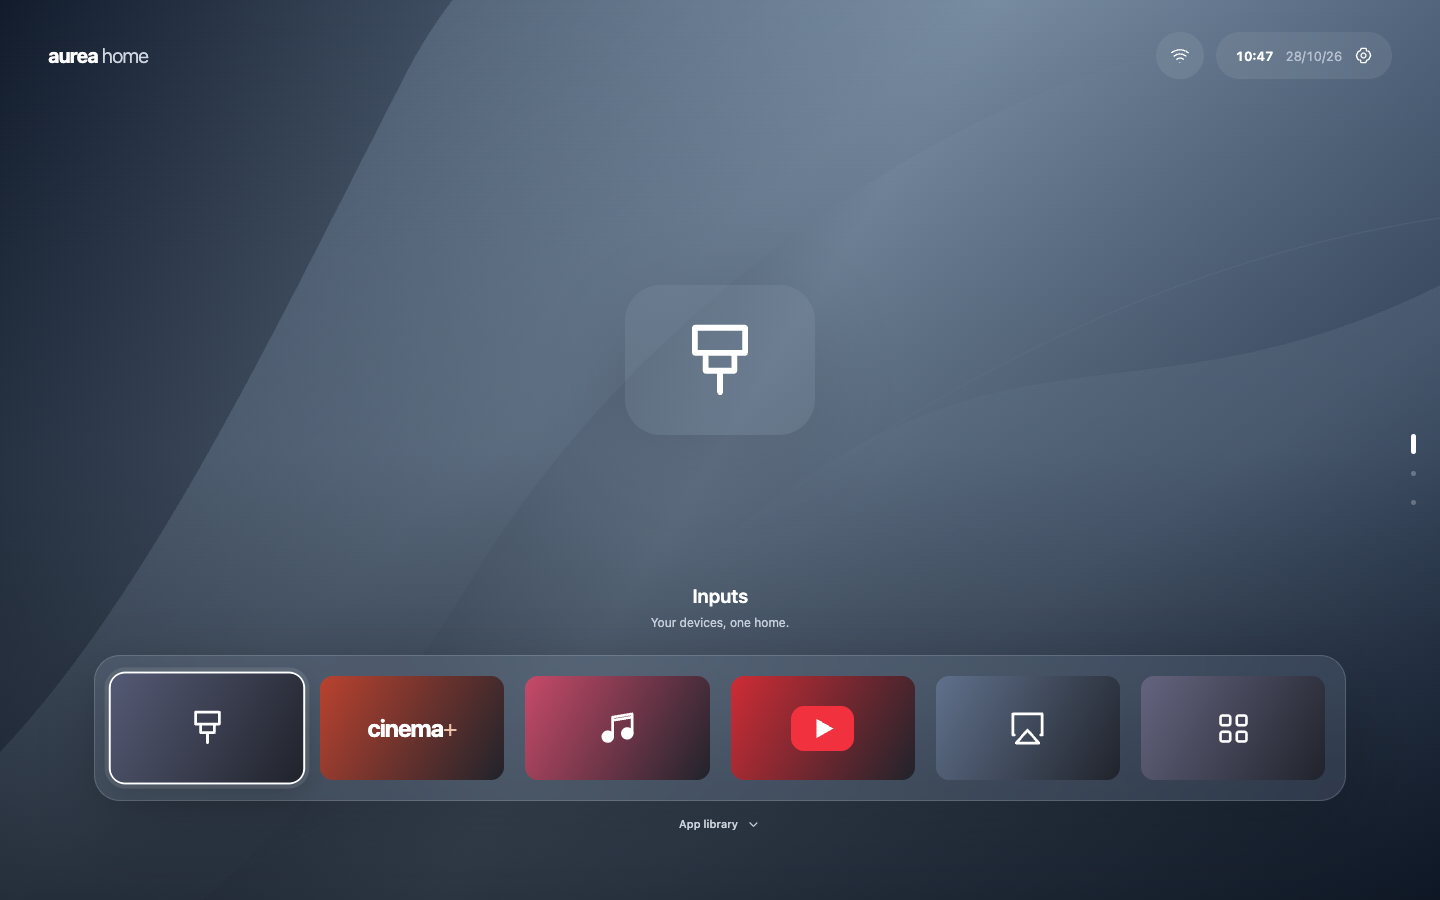
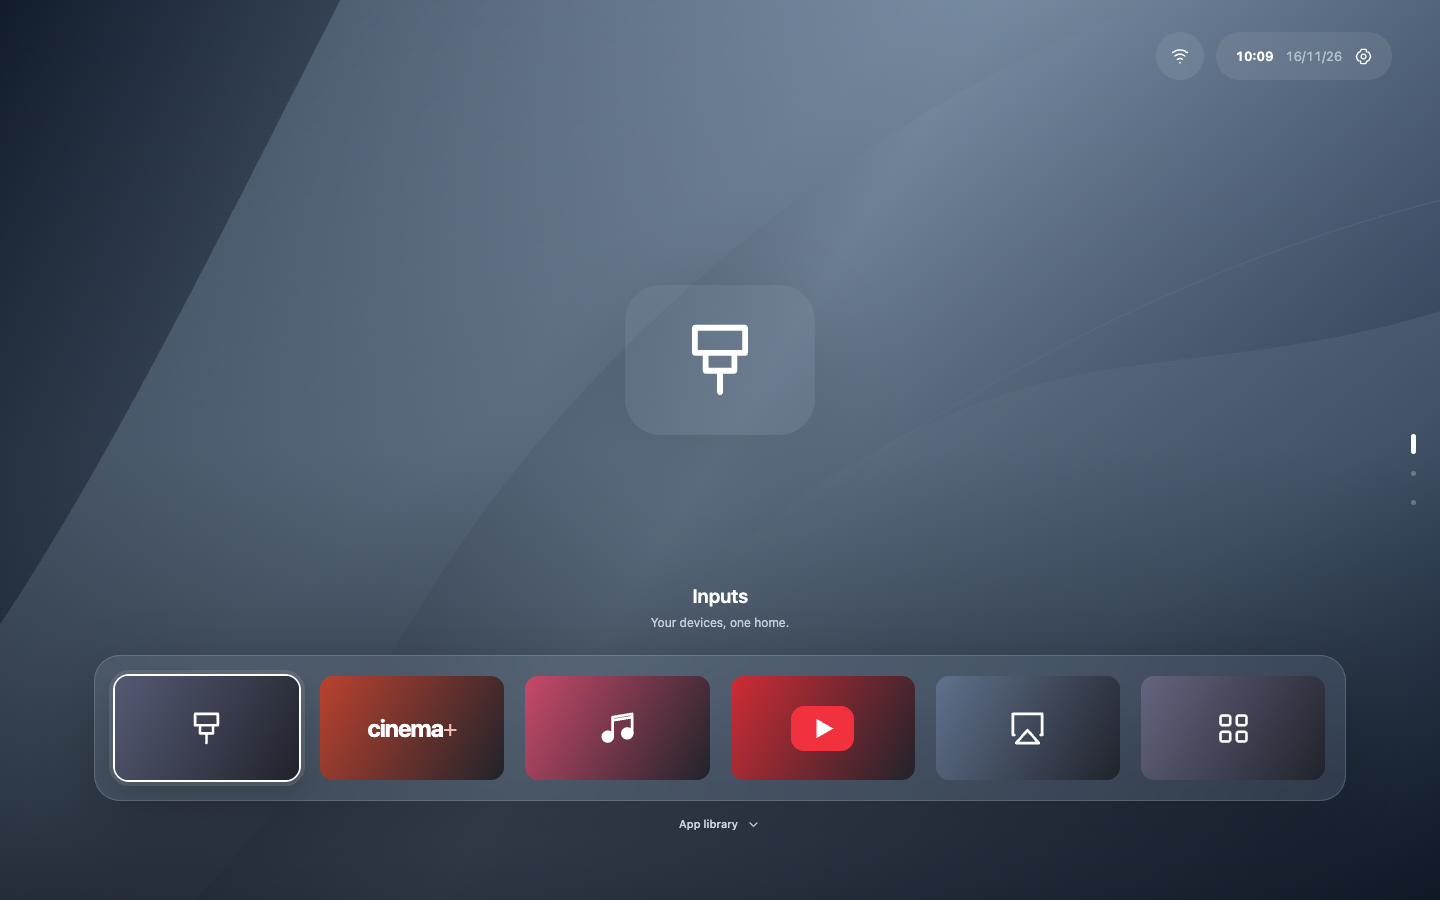
feat(web): capture and validate browser screenshots

Changed region(s): [[0.0, 0.0, 0.3125, 0.6533], [0.0625, 0.7467, 0.2188, 0.8711], [0.0312, 0.0311, 0.0938, 0.0933]]

diff --git a/docs/ACTIVE_TASKS.md b/docs/ACTIVE_TASKS.md
@@ -4,7 +4,7 @@ Process oldest actionable requests first. When hardware blocks verification, rec
 
 | Order / ID | Original scope | Priority and dependencies | State and evidence | Next action |
 |---|---|---|---|---|
-| 1 / AUREA-001 | Apple TV app launch, navigation, phone mode, receiver settings and boot preview | High. Hardware verification needs an Android TV and a compatible Apple TV on the same network. | Implemented in `8813a4d`. Build 43505896531 and browser/host checks passed. | Verify Companion PIN, app list, Music launch, both Home buttons, input switching, receiver rename and disable on devices. |
+| 1 / AUREA-001 | Apple TV app launch, navigation, phone mode, receiver settings and boot preview | High. Hardware verification needs an Android TV and a compatible Apple TV on the same network. | Implemented in `8813a4d`. Build 43505896531 and browser/host checks passed. | Device verification blocked until a TV is reachable over ADB. Then verify Companion PIN, app list, Music launch, both Home buttons, input switching, receiver rename and disable on devices. |
 | 2 / AUREA-002 | Check the 2.3.0 builds and fix any failures | High. Depends on Actions results. | Verified. All six native jobs and artifact listings checked in run 43505896531. | None. |
-| 3 / AUREA-003 | Apply the new UADS and verify the quality workflow | High. Source checks can run independently of native packages. | In Progress. Run 43732569625 passed governance and source checks and failed the dependency audit. The lockfile fix `d993182` passed the local high-severity gate. | Push the fixes and verify the replacement source-quality run. |
-| 4 / AUREA-004 | Complete the applicable UADS product gaps | Normal. Landing and onboarding can proceed before device capture; platform-specific images need matching runtimes. | In Progress. The hosted landing, stable downloads and web introduction passed the focused Chromium flow. | Finish alternate installation badges and device installation checks. Continue with native onboarding, screenshot tools, developer server configuration and remaining quality and release evidence. |
+| 3 / AUREA-003 | Apply the new UADS and verify the quality workflow | High. Source checks can run independently of native packages. | Verified for the source-quality workflow. Run 43732569625 failed the audit. The lockfile fix `d993182` passed the audit, and run 43841918429 passed dependency audit, governance and source checks. | Track broader compliance gaps in AUREA-004. |
+| 4 / AUREA-004 | Complete the applicable UADS product gaps | Normal. Landing and onboarding can proceed before device capture; platform-specific images need matching runtimes. | In Progress. The hosted landing, stable downloads and web introduction passed the Chromium flow in `7e169c3`. Current desktop launcher and mobile remote screenshots were captured from the browser previews. | Finish alternate installation badges and device installation checks. Continue with native onboarding, screenshot tools, developer server configuration and remaining quality and release evidence. |

diff --git a/docs/reports/compliance/2026-11-16-web-entry.md b/docs/reports/compliance/2026-11-16-web-entry.md
@@ -1,0 +1,9 @@
+# Hosted web entry and dependency recovery
+
+The Expo export at source commit `7e169c3` passed 37 local Playwright cases, including remembered entry, first-run navigation and rejection of an incorrect asset origin using an intercepted GitHub response. The JavaScript budget passed at 1,835,160 of 2,200,000 bytes. GitHub lists the three supported package types in stable release v2.1.0. This does not establish production deployment, browser installation or alternative-client installation.
+
+The [previous source quality run](https://github.com/Xarber/Aurea-Home/actions/runs/43732569625) failed the dependency audit. The [replacement run](https://github.com/Xarber/Aurea-Home/actions/runs/43841918429) passed dependency audit, governance and source checks. The local npm report still has moderate advisories below the current high-severity gate.
+
+UADS-WEB-002 and UADS-DIST-003 have browser implementation evidence. UADS-UI-004 has a browser introduction and captures from the current launcher and remote previews at 1440×900 and 390×844. Production accessibility, external installation, native onboarding and device captures remain pending. The capture workflow configuration has local capture evidence and still needs a remote execution result. UADS-SEC-004 account-specific sign-in is inapplicable to Aurea; existing device-pairing trust boundaries remain in scope.
+
+No device was listed by ADB. Physical Apple TV and AirPlay checks remain open. No package was installed or release promoted.

diff --git a/docs/features/WEB_ENTRY.md b/docs/features/WEB_ENTRY.md
@@ -7,3 +7,5 @@ The hosted shell only applies to the clean root at `aurea.xcenter.it`. The direc
 The page queries the public GitHub stable-release endpoint without credentials. It displays only uploaded APK and IPA files matching the release tag, expected package naming and exact GitHub asset URL. It excludes drafts, prereleases and metadata tags. The unsigned iOS download requires external signing. The browser install action depends on the browser's install event. Safari on iPhone and iPad also has a manual installation path.
 
 The introduction uses existing screenshots captured from the web demo. Native onboarding, current device-specific captures and installation through external clients still require verification.
+
+Browser screenshot routes and device dimensions are defined in `config/web-screenshots.json`. With the Expo export served locally, run `node scripts/expo/capture-web-screenshots.mjs all` to render isolated candidates into `build/web-screenshots`. Review images before replacing their public counterparts. The production export checks public image dimensions, and the browser workflow retains fresh candidates by commit.
